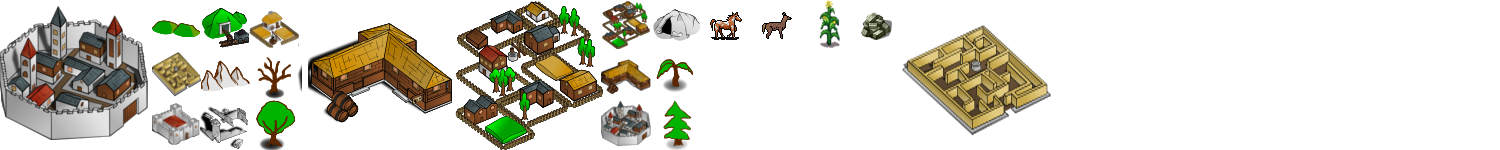
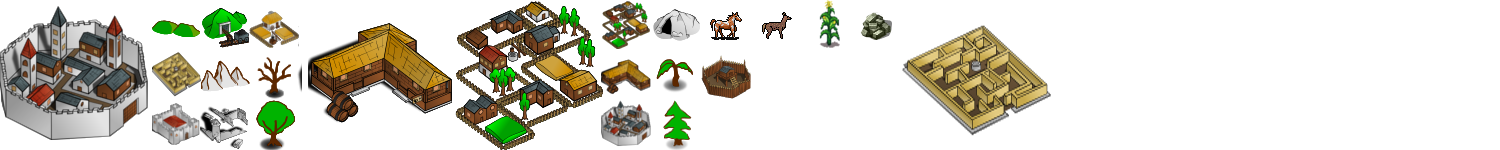
Bandit Camps now generate on the map

Changed region(s): [[0.46, 0.4, 0.5213, 0.6667]]

diff --git a/Divine Right/Divine Right/Divine Right/GameScreens/PlayableInterface.cs b/Divine Right/Divine Right/Divine Right/GameScreens/PlayableInterface.cs
@@ -1093,12 +1093,20 @@ namespace Divine_Right.GameScreens
                     {
                         LoadDungeon(lce.VisitDungeon);
                     }
+                    else if (lce.VisitCamp != null)
+                    {
+                        LoadCamp(lce.VisitCamp);
+                    }
                     else if (lce.VisitMainMap)
                     {
                         //Serialise the old map
                         GameState.LocalMap.SerialiseLocalMap();
-
-                        if (GameState.LocalMap.Settlement == null)
+                        
+                        if (GameState.LocalMap.Camp != null)
+                        {
+                            LoadGlobalMap(GameState.LocalMap.Camp.Coordinate);
+                        }
+                        else if (GameState.LocalMap.Settlement == null)
                         {
                             //Dungeon
                             LoadGlobalMap(GameState.LocalMap.Dungeon.Coordinate);
@@ -1199,6 +1207,70 @@ namespace Divine_Right.GameScreens
             playerBlock.PutItemOnBlock(GameState.PlayerCharacter.MapCharacter);
 
             GameState.LocalMap.Actors.Add(GameState.PlayerCharacter);
+        }
+
+        private void LoadCamp(BanditCamp camp)
+        {
+            if (LocalMap.MapGenerated(camp.UniqueGUID))
+            {
+                //Reload the map
+                var savedMap = LocalMap.DeserialiseLocalMap(camp.UniqueGUID);
+
+                GameState.LocalMap = new LocalMap(savedMap.localGameMap.GetLength(0), savedMap.localGameMap.GetLength(1), 1, 0);
+
+                GameState.LocalMap.Actors = new List<Actor>();
+
+                List<MapBlock> collapsedMap = new List<MapBlock>();
+
+                foreach (MapBlock block in savedMap.localGameMap)
+                {
+                    collapsedMap.Add(block);
+                }
+
+                GameState.LocalMap.AddToLocalMap(collapsedMap.ToArray());
+                GameState.LocalMap.PathfindingMap = savedMap.PathfindingMap;
+                GameState.LocalMap.PointsOfInterest = savedMap.PointsOfInterest;
+
+                GameState.LocalMap.Actors = savedMap.Actors;
+
+                //Find the player character item
+                var playerActor = GameState.LocalMap.Actors.Where(a => a.IsPlayerCharacter).FirstOrDefault();
+
+                GameState.PlayerCharacter.MapCharacter.Coordinate = playerActor.MapCharacter.Coordinate;
+                GameState.PlayerCharacter.MapCharacter = playerActor.MapCharacter;
+
+                GameState.LocalMap.Camp = camp;
+            }
+            else
+            {
+                Actor[] actors = null;
+
+                MapCoordinate startPoint = null;
+                List<PointOfInterest> pointsOfInterest = null;
+
+                var gennedCamp = CampGenerator.GenerateCamp(camp.BanditTotal,out startPoint, out actors);
+
+                GameState.LocalMap = new LocalMap(gennedCamp.GetLength(0), gennedCamp.GetLength(1), 1, 0);
+                GameState.LocalMap.Actors = new List<Actor>();
+
+                List<MapBlock> collapsedMap = new List<MapBlock>();
+
+                foreach (MapBlock block in gennedCamp)
+                {
+                    collapsedMap.Add(block);
+                }
+
+                GameState.LocalMap.AddToLocalMap(collapsedMap.ToArray());
+
+                GameState.PlayerCharacter.MapCharacter.Coordinate = startPoint;
+
+                MapBlock playerBlock = GameState.LocalMap.GetBlockAtCoordinate(startPoint);
+                playerBlock.PutItemOnBlock(GameState.PlayerCharacter.MapCharacter);
+                GameState.LocalMap.Actors.AddRange(actors);
+                GameState.LocalMap.Actors.Add(GameState.PlayerCharacter);
+                GameState.LocalMap.PointsOfInterest = pointsOfInterest;
+                GameState.LocalMap.Camp = camp;
+            }
         }
 
         private void LoadDungeon(Dungeon dungeon)

diff --git a/Divine Right/DivineRightGame/Managers/WorldGenerationManager.cs b/Divine Right/DivineRightGame/Managers/WorldGenerationManager.cs
@@ -35,6 +35,8 @@ namespace DivineRightGame.Managers
 
         public const int DUNGEON_TOTAL = 20;
 
+        public const int BANDIT_TOTAL = 40;
+
         public const int REGIONSIZE = WORLDSIZE * 2;
 
         protected static Region[] regions;
@@ -107,6 +109,9 @@ namespace DivineRightGame.Managers
 
             CurrentStep = "And the humans awoke the beasts and monsters of the land";
             CreateDungeons();
+
+            CurrentStep = "And some humans took to thievery";
+            CreateBandits();
 
             CurrentStep = "And thus the world was done. [Enter] to continue";
             isGenerating = false;
@@ -928,7 +933,7 @@ namespace DivineRightGame.Managers
                     }
                 }
 
-                Settlement settlement = SettlementGenerator.GenerateSettlement(block.Tile.Coordinate, random.Next(5) + 10,resources,true);
+                Settlement settlement = SettlementGenerator.GenerateSettlement(block.Tile.Coordinate, random.Next(5) + 10, resources, true);
                 settlement.IsCapital = true;
 
                 GameState.GlobalMap.WorldSettlements.Add(settlement);
@@ -975,7 +980,7 @@ namespace DivineRightGame.Managers
                         }
                     }
 
-                    settlement = SettlementGenerator.GenerateSettlement(block.Tile.Coordinate, random.Next(7) + 1,resources);
+                    settlement = SettlementGenerator.GenerateSettlement(block.Tile.Coordinate, random.Next(7) + 1, resources);
 
                     GameState.GlobalMap.WorldSettlements.Add(settlement);
 
@@ -1023,7 +1028,7 @@ namespace DivineRightGame.Managers
 
                 Dungeon dungeon = new Dungeon();
                 dungeon.Coordinate = new MapCoordinate(block.Tile.Coordinate);
-                dungeon.GuardRooms = GameState.Random.Next(2) +1;
+                dungeon.GuardRooms = GameState.Random.Next(2) + 1;
                 dungeon.MaxOwnedPopulation = GameState.Random.Next(10) + 2;
                 dungeon.MaxWildPopulation = GameState.Random.Next(4);
                 dungeon.OwnerCreatureType = enemyRace;
@@ -1083,6 +1088,53 @@ namespace DivineRightGame.Managers
 
                     blocks.Remove(block);
                 }
+            }
+        }
+
+        /// <summary>
+        /// Create bandit camps
+        /// </summary>
+        public static void CreateBandits()
+        {
+            List<MapBlock> blocks = new List<MapBlock>();
+
+            //Collect all the points
+            for (int x = 0; x < WORLDSIZE; x++)
+            {
+                for (int y = 0; y < WORLDSIZE; y++)
+                {
+                    MapBlock block = GameState.GlobalMap.GetBlockAtCoordinate(new MapCoordinate(x, y, 0, MapType.GLOBAL));
+
+                    var tile = block.Tile as GlobalTile;
+
+                    if (!tile.HasRiver && !tile.IsBlockedForColonisation && !tile.HasResource && tile.Elevation > 0 && tile.Elevation < 250)
+                    {
+                        blocks.Add(block);
+                    }
+                }
+            }
+
+            //Just toss them anywhere
+            for (int i = 0; i < BANDIT_TOTAL; i++)
+            {
+                int randomNumber = GameState.Random.Next(blocks.Count);
+
+                MapBlock block = blocks[randomNumber];
+
+                //And remove it
+                blocks.RemoveAt(randomNumber);
+
+                BanditCamp camp = new BanditCamp();
+                camp.BanditTotal = GameState.Random.Next(5, 10);
+                camp.Coordinate = new MapCoordinate(block.Tile.Coordinate);
+
+                BanditCampItem item = new BanditCampItem();
+                item.Camp = camp;
+                item.Coordinate = new MapCoordinate(block.Tile.Coordinate);
+                item.Name = "Bandit Camp";
+                item.Description = "A camp full of bandits";
+
+                block.ForcePutItemOnBlock(item);
             }
         }
 

diff --git a/Divine Right/Objects/Items/Archetypes/Global/BanditCampItem.cs b/Divine Right/Objects/Items/Archetypes/Global/BanditCampItem.cs
@@ -1,0 +1,79 @@
+using System;
+using System.Collections.Generic;
+using System.Linq;
+using System.Text;
+using DRObjects.Enums;
+using DRObjects.Graphics;
+using DRObjects.GraphicsEngineObjects;
+
+namespace DRObjects.Items.Archetypes.Global
+{
+    [Serializable]
+    /// <summary>
+    /// A representation of a bandit camp on the map
+    /// </summary>
+    public class BanditCampItem: 
+        MapItem
+    {
+        /// <summary>
+        /// The sprite to display
+        /// </summary>
+        private List<SpriteData> sprites = null;
+        
+        public BanditCamp Camp { get; set; }
+
+        /// <summary>
+        /// Creates a bandit camp item.
+        /// </summary>
+        public BanditCampItem()
+        {
+            this.MayContainItems = true;
+            sprites = new List<SpriteData>();
+
+            sprites.Add(SpriteManager.GetSprite(GlobalSpriteName.BANDIT_CAMP));
+        }
+
+        public override Enums.ActionTypeEnum[] GetPossibleActions(Actor actor)
+        {
+            List<ActionTypeEnum> actionTypes = new List<ActionTypeEnum>();
+            actionTypes.AddRange(base.GetPossibleActions(actor));
+
+            if (Math.Abs(this.Coordinate - actor.MapCharacter.Coordinate) < 2)
+            {
+                actionTypes.Add(ActionTypeEnum.EXPLORE);
+            }
+
+            return actionTypes.ToArray();
+        }
+
+        public override GraphicsEngineObjects.Abstract.ActionFeedback[] PerformAction(ActionTypeEnum actionType, Actor actor, object[] args)
+        {
+            if (actionType != ActionTypeEnum.EXPLORE)
+            {
+                return base.PerformAction(actionType, actor, args);
+            }
+
+            //Otherwise, visit the camp
+
+            return new GraphicsEngineObjects.Abstract.ActionFeedback[1] {
+                new LocationChangeFeedback()
+                {
+                    VisitMainMap = false,
+                    VisitCamp = this.Camp
+                }
+            };
+        }
+
+        public override List<SpriteData> Graphics
+        {
+            get
+            {
+                return sprites;
+            }
+            set
+            {
+                base.Graphics = value;
+            }
+        }
+    }
+}

diff --git a/Divine Right/Objects/Graphics/SpriteManager.cs b/Divine Right/Objects/Graphics/SpriteManager.cs
@@ -116,6 +116,8 @@ namespace DRObjects.Graphics
             globalSprites[(int)GlobalSpriteName.VILLAGE_8] = new SpriteData(WORLDITEMS, new Rectangle(500, 100, 50, 50));
             globalSprites[(int)GlobalSpriteName.VILLAGE_9] = new SpriteData(WORLDITEMS, new Rectangle(550, 100, 50, 50));
 
+            globalSprites[(int)GlobalSpriteName.BANDIT_CAMP] = new SpriteData(WORLDITEMS, new Rectangle(700, 50, 50, 50));
+
             colourSprites[(int)ColourSpriteName.BROWN] = new SpriteData(@"Graphics/World/Overlay/Regions/Brown");
             colourSprites[(int)ColourSpriteName.GREEN] = new SpriteData(@"Graphics/World/Overlay/Regions/Green");
             colourSprites[(int)ColourSpriteName.INDIGO] = new SpriteData(@"Graphics/World/Overlay/Regions/Indigo");

diff --git a/Divine Right/Objects/Items/Archetypes/Global/BanditCamp.cs b/Divine Right/Objects/Items/Archetypes/Global/BanditCamp.cs
@@ -1,0 +1,27 @@
+using System;
+using System.Collections.Generic;
+using System.Linq;
+using System.Text;
+
+namespace DRObjects.Items.Archetypes.Global
+{
+    [Serializable]
+    /// <summary>
+    /// A Bandit Camp. A small map containing bandits.
+    /// </summary>
+    public class BanditCamp
+    {
+        private Guid _uniqueGUID;
+
+        public Guid UniqueGUID { get { return _uniqueGUID; } }
+
+        public int BanditTotal { get; set; }
+
+        public BanditCamp()
+        {
+            this._uniqueGUID = Guid.NewGuid();
+        }
+
+        public MapCoordinate Coordinate { get; set; }
+    }
+}

diff --git a/Divine Right/Objects/Items/Archetypes/Local/LeaveTownItem.cs b/Divine Right/Objects/Items/Archetypes/Local/LeaveTownItem.cs
@@ -41,6 +41,18 @@ namespace DRObjects.Items.Archetypes.Local
             return actions.ToArray();
         }
 
+        public override bool MayContainItems
+        {
+            get
+            {
+                return true;
+            }
+            set
+            {
+                
+            }
+        }
+
         public override GraphicsEngineObjects.Abstract.ActionFeedback[] PerformAction(ActionTypeEnum actionType, Actor actor, object[] args)
         {
             if (actionType != ActionTypeEnum.LEAVE)

diff --git a/Divine Right/DivineRightGame/LocalMap.cs b/Divine Right/DivineRightGame/LocalMap.cs
@@ -64,6 +64,11 @@ namespace DivineRightGame
         /// </summary>
         public Dungeon Dungeon { get; set; }
 
+        /// <summary>
+        /// Represents the bandit camp the player is currently at
+        /// </summary>
+        public BanditCamp Camp { get; set; }
+
         #endregion
 
         #region Constructors
@@ -315,6 +320,5 @@ namespace DivineRightGame
         {
             return File.Exists(GameState.SAVEPATH + uniqueGuid +".dvd");
         }
-
     }
 }

diff --git a/Divine Right/Objects/GraphicsEngineObjects/LocationChangeFeedback.cs b/Divine Right/Objects/GraphicsEngineObjects/LocationChangeFeedback.cs
@@ -16,13 +16,14 @@ namespace DRObjects.GraphicsEngineObjects
         public Settlement VisitSettlement { get; set; }
         public bool VisitMainMap { get; set; }
         public Dungeon VisitDungeon { get; set; }
+        public BanditCamp VisitCamp { get; set; }
 
         public LocationChangeFeedback()
         {
             VisitSettlement = null;
             VisitMainMap = false;
             VisitDungeon = null;
+            VisitCamp = null;
         }
-
     }
 }

diff --git a/Divine Right/Objects/Graphics/GlobalSpriteName.cs b/Divine Right/Objects/Graphics/GlobalSpriteName.cs
@@ -69,5 +69,6 @@ namespace DRObjects.Graphics
         DUNGEON_7,
         DUNGEON_8,
         DUNGEON_9,
+        BANDIT_CAMP,
     }
 }
